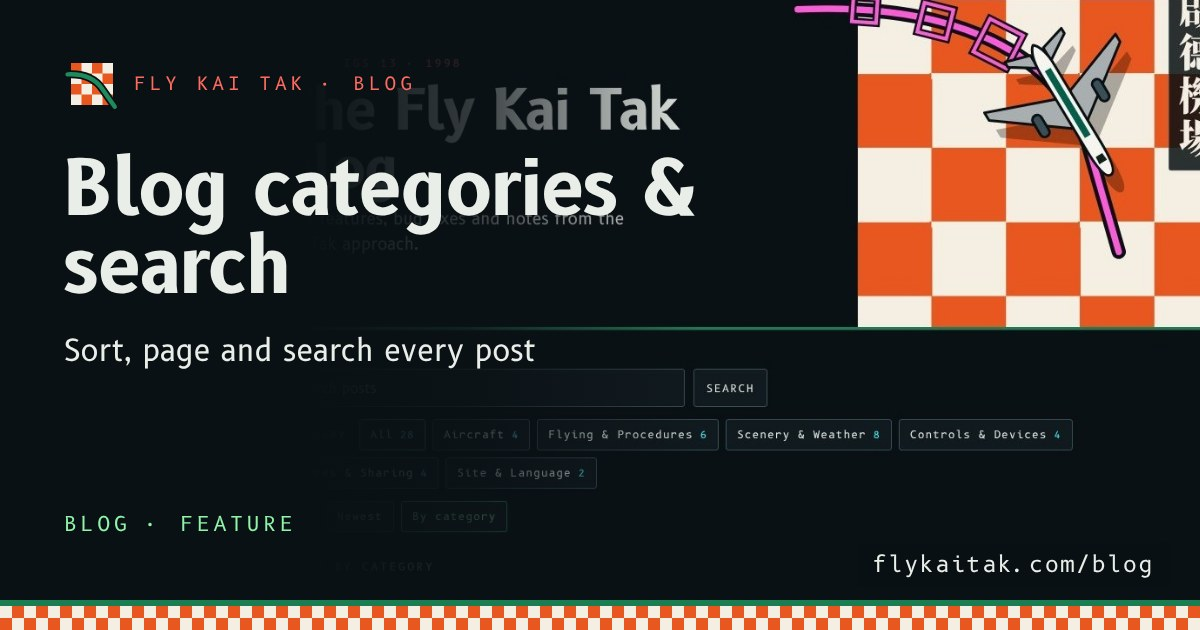
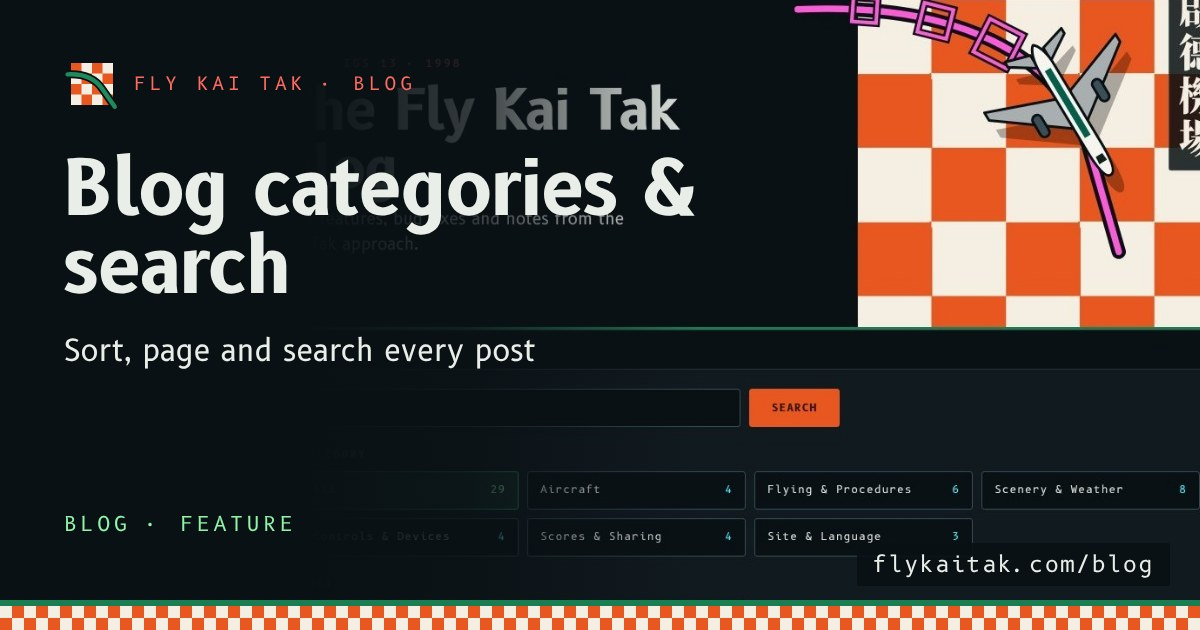
Blog: tidy search bar and category buttons
- Remove the redundant "Search posts" placeholder (button and hidden label remain)
- Search box and button both 44px tall, same font and size as the other controls
- Categories as a grid of equal-size buttons with counts; sort as matching buttons, in one panel
- Refresh the screenshots in the feature post

Claude-Session: https://claude.ai/code/session_013KFodNiqns6dwfMfUUXwou

diff --git a/assets/blog/blog.css b/assets/blog/blog.css
@@ -150,19 +150,26 @@ html[data-lang=zh] .prose[data-lang=en]{display:none}
 html[data-lang=zh] body{font-family:var(--f-ui),"PingFang HK","Microsoft JhengHei","Noto Sans TC","Heiti TC",sans-serif}
 html[data-lang=zh] .prose,html[data-lang=zh] .post-head h1,html[data-lang=zh] .dek{line-height:1.8}
 
-/* Blog listing: search, categories, sort, pagination */
+/* Blog listing: search, categories, sort, pagination. One control style: B612 Mono 12px caps, 44px tall, 3px radius */
 .sr{position:absolute;width:1px;height:1px;overflow:hidden;clip:rect(0 0 0 0);white-space:nowrap}
-.tools{display:grid;gap:14px;margin:0 0 30px}
-.blogsearch{display:flex;gap:10px;max-width:560px}
-.blogsearch input{flex:1;min-width:0;min-height:44px;padding:8px 14px;background:var(--panel-2);border:1px solid var(--line-2);border-radius:3px;color:var(--text);font-family:var(--f-ui);font-size:16px}
-.blogsearch input::placeholder{color:var(--muted)}
+.tools{display:grid;gap:22px;margin:0 0 34px;padding:22px;background:var(--panel-2);border:1px solid var(--line);border-radius:3px}
+.blogsearch{display:flex;align-items:stretch;gap:10px;max-width:620px}
+.blogsearch input,.blogsearch .btn{height:44px;min-height:44px;box-sizing:border-box;margin:0;border-radius:3px;font-family:var(--f-num);font-size:12px;line-height:1;letter-spacing:.08em}
+.blogsearch input{flex:1;min-width:0;padding:0 14px;background:var(--ink);border:1px solid var(--line-2);color:var(--text);-webkit-appearance:none;appearance:none}
 .blogsearch input:focus-visible{outline:2px solid var(--checker);outline-offset:2px;border-color:var(--paper)}
-.chips,.sortbar{display:flex;flex-wrap:wrap;align-items:center;gap:8px}
-.chips .k,.sortbar .k{font-family:var(--f-num);font-size:11px;letter-spacing:.22em;text-transform:uppercase;color:var(--muted);margin-right:6px}
-.chips a,.sortbar a,.pager .pg{display:inline-flex;align-items:center;gap:8px;min-height:36px;padding:6px 12px;border:1px solid var(--line-2);border-radius:3px;background:var(--panel-2);color:var(--text);text-decoration:none;font-family:var(--f-num);font-size:12px;letter-spacing:.08em;cursor:pointer}
-.chips a:hover,.sortbar a:hover,.pager .pg:hover{border-color:var(--paper)}
-.chips a[aria-current=page],.sortbar a[aria-current=page],.pager .pg[aria-current=page]{border-color:var(--jade-bright);color:var(--phosphor)}
-.n{font-family:var(--f-num);font-size:11px;color:var(--cyan);font-variant-numeric:tabular-nums}
+.blogsearch .btn{flex:none;justify-content:center;min-width:104px;padding:0 20px;background:var(--checker);border-color:var(--checker);color:var(--checker-ink);font-weight:700}
+.blogsearch .btn:hover{border-color:var(--paper)}
+.chips,.sortbar{display:grid;gap:10px}
+.tools h2.k{margin:0;font-family:var(--f-num);font-size:11px;font-weight:400;letter-spacing:.22em;text-transform:uppercase;color:var(--muted)}
+.chipgrid{display:grid;gap:10px;grid-template-columns:repeat(auto-fill,minmax(236px,1fr))}
+.chipgrid a,.seg a,.pager .pg{display:flex;align-items:center;justify-content:space-between;gap:10px;height:44px;min-height:44px;box-sizing:border-box;padding:0 14px;border:1px solid var(--line-2);border-radius:3px;background:var(--ink);color:var(--text);text-decoration:none;font-family:var(--f-num);font-size:12px;line-height:1.2;letter-spacing:.08em;cursor:pointer}
+.chipgrid a:hover,.seg a:hover,.pager .pg:hover{border-color:var(--paper)}
+.chipgrid a[aria-current=page],.seg a[aria-current=page],.pager .pg[aria-current=page]{border-color:var(--jade-bright);background:rgba(47,163,109,.14);color:var(--phosphor)}
+.chipgrid .nm{min-width:0;white-space:nowrap}
+.seg{display:grid;grid-template-columns:repeat(auto-fill,minmax(236px,1fr));gap:10px}
+.seg a{justify-content:center}
+.n{flex:none;font-family:var(--f-num);font-size:12px;color:var(--cyan);font-variant-numeric:tabular-nums}
+.chipgrid a[aria-current=page] .n{color:var(--phosphor)}
 .grouphead{display:flex;align-items:baseline;gap:12px;margin:34px 0 16px;font-size:22px;line-height:1.2}
 .grouphead:first-child{margin-top:0}
 .grouphead a{color:var(--text);text-decoration:none}
@@ -170,8 +177,10 @@ html[data-lang=zh] .prose,html[data-lang=zh] .post-head h1,html[data-lang=zh] .d
 .pager{display:flex;flex-wrap:wrap;align-items:center;gap:8px;margin:36px 0 0}
 .pager .pginfo,.count{font-family:var(--f-num);font-size:12px;letter-spacing:.1em;color:var(--muted)}
 .pager .pginfo{margin-right:8px}
-.pager button.pg{font:inherit;font-family:var(--f-num);font-size:12px;letter-spacing:.08em}
+.pager .pg{justify-content:center;min-width:44px}
+.pager button.pg{margin:0}
 .count{margin:0 0 18px}
 .catpill{align-self:flex-start;font-family:var(--f-num);font-size:10.5px;letter-spacing:.14em;text-transform:uppercase;color:var(--amber);border:1px solid var(--line-2);border-radius:3px;padding:2px 8px}
 .eyebrow a{color:inherit;text-decoration-color:var(--line-2)}
-@media (max-width:520px){.blogsearch{max-width:none}}
+@media (max-width:520px){.chipgrid .nm{white-space:normal;line-height:1.2}.tools{padding:16px}.blogsearch{max-width:none}.chipgrid{grid-template-columns:repeat(2,minmax(0,1fr))}.seg{grid-template-columns:repeat(2,minmax(0,1fr))}}
+@media (hover:none){.blogsearch input{font-size:16px}}

diff --git a/blog/index.html b/blog/index.html
@@ -68,11 +68,11 @@ window.FKT_ANALYTICS={id:'G-7MNP3SBEF8',src:'/metrics/',fallback:'https://www.go
   <div class="tools">
   <form class="blogsearch" id="blogsearch" role="search" action="/blog/" method="get">
     <label class="sr" for="blogq">Search posts</label>
-    <input id="blogq" name="q" type="search" placeholder="Search posts" autocomplete="off" enterkeyhint="search">
+    <input id="blogq" name="q" type="search" autocomplete="off" enterkeyhint="search">
     <button class="btn" type="submit">Search</button>
   </form>
-  <nav class="chips" aria-label="Categories"><span class="k">Category</span><a href="/blog/" aria-current="page">All <span class="n">29</span></a><a href="/blog/category/aircraft/"><span data-zh="飛機">Aircraft</span><span class="n">4</span></a><a href="/blog/category/flying/"><span data-zh="飛行同程序">Flying &amp; Procedures</span><span class="n">6</span></a><a href="/blog/category/scenery/"><span data-zh="風景同天氣">Scenery &amp; Weather</span><span class="n">8</span></a><a href="/blog/category/controls/"><span data-zh="操控同裝置">Controls &amp; Devices</span><span class="n">4</span></a><a href="/blog/category/scores/"><span data-zh="分數同分享">Scores &amp; Sharing</span><span class="n">4</span></a><a href="/blog/category/site/"><span data-zh="網站同語言">Site &amp; Language</span><span class="n">3</span></a></nav>
-  <nav class="sortbar" aria-label="Sort posts"><span class="k">Sort</span><a href="/blog/" aria-current="page">Newest</a><a href="/blog/sort/category/">By category</a></nav>
+  <nav class="chips" aria-label="Categories"><h2 class="k">Category</h2><div class="chipgrid"><a href="/blog/" aria-current="page"><span class="nm">All</span><span class="n">29</span></a><a href="/blog/category/aircraft/"><span class="nm" data-zh="飛機">Aircraft</span><span class="n">4</span></a><a href="/blog/category/flying/"><span class="nm" data-zh="飛行同程序">Flying &amp; Procedures</span><span class="n">6</span></a><a href="/blog/category/scenery/"><span class="nm" data-zh="風景同天氣">Scenery &amp; Weather</span><span class="n">8</span></a><a href="/blog/category/controls/"><span class="nm" data-zh="操控同裝置">Controls &amp; Devices</span><span class="n">4</span></a><a href="/blog/category/scores/"><span class="nm" data-zh="分數同分享">Scores &amp; Sharing</span><span class="n">4</span></a><a href="/blog/category/site/"><span class="nm" data-zh="網站同語言">Site &amp; Language</span><span class="n">3</span></a></div></nav>
+  <nav class="sortbar" aria-label="Sort posts"><h2 class="k">Sort</h2><div class="seg"><a href="/blog/" aria-current="page">Newest</a><a href="/blog/sort/category/">By category</a></div></nav>
 </div>
   <div id="results" hidden>
     <p class="count" id="resultcount" role="status" aria-live="polite"></p>

diff --git a/blog/page/2/index.html b/blog/page/2/index.html
@@ -67,11 +67,11 @@ window.FKT_ANALYTICS={id:'G-7MNP3SBEF8',src:'/metrics/',fallback:'https://www.go
   <div class="tools">
   <form class="blogsearch" id="blogsearch" role="search" action="/blog/" method="get">
     <label class="sr" for="blogq">Search posts</label>
-    <input id="blogq" name="q" type="search" placeholder="Search posts" autocomplete="off" enterkeyhint="search">
+    <input id="blogq" name="q" type="search" autocomplete="off" enterkeyhint="search">
     <button class="btn" type="submit">Search</button>
   </form>
-  <nav class="chips" aria-label="Categories"><span class="k">Category</span><a href="/blog/" aria-current="page">All <span class="n">29</span></a><a href="/blog/category/aircraft/"><span data-zh="飛機">Aircraft</span><span class="n">4</span></a><a href="/blog/category/flying/"><span data-zh="飛行同程序">Flying &amp; Procedures</span><span class="n">6</span></a><a href="/blog/category/scenery/"><span data-zh="風景同天氣">Scenery &amp; Weather</span><span class="n">8</span></a><a href="/blog/category/controls/"><span data-zh="操控同裝置">Controls &amp; Devices</span><span class="n">4</span></a><a href="/blog/category/scores/"><span data-zh="分數同分享">Scores &amp; Sharing</span><span class="n">4</span></a><a href="/blog/category/site/"><span data-zh="網站同語言">Site &amp; Language</span><span class="n">3</span></a></nav>
-  <nav class="sortbar" aria-label="Sort posts"><span class="k">Sort</span><a href="/blog/" aria-current="page">Newest</a><a href="/blog/sort/category/">By category</a></nav>
+  <nav class="chips" aria-label="Categories"><h2 class="k">Category</h2><div class="chipgrid"><a href="/blog/" aria-current="page"><span class="nm">All</span><span class="n">29</span></a><a href="/blog/category/aircraft/"><span class="nm" data-zh="飛機">Aircraft</span><span class="n">4</span></a><a href="/blog/category/flying/"><span class="nm" data-zh="飛行同程序">Flying &amp; Procedures</span><span class="n">6</span></a><a href="/blog/category/scenery/"><span class="nm" data-zh="風景同天氣">Scenery &amp; Weather</span><span class="n">8</span></a><a href="/blog/category/controls/"><span class="nm" data-zh="操控同裝置">Controls &amp; Devices</span><span class="n">4</span></a><a href="/blog/category/scores/"><span class="nm" data-zh="分數同分享">Scores &amp; Sharing</span><span class="n">4</span></a><a href="/blog/category/site/"><span class="nm" data-zh="網站同語言">Site &amp; Language</span><span class="n">3</span></a></div></nav>
+  <nav class="sortbar" aria-label="Sort posts"><h2 class="k">Sort</h2><div class="seg"><a href="/blog/" aria-current="page">Newest</a><a href="/blog/sort/category/">By category</a></div></nav>
 </div>
   <div id="results" hidden>
     <p class="count" id="resultcount" role="status" aria-live="polite"></p>

diff --git a/blog/sort/category/index.html b/blog/sort/category/index.html
@@ -67,11 +67,11 @@ window.FKT_ANALYTICS={id:'G-7MNP3SBEF8',src:'/metrics/',fallback:'https://www.go
   <div class="tools">
   <form class="blogsearch" id="blogsearch" role="search" action="/blog/" method="get">
     <label class="sr" for="blogq">Search posts</label>
-    <input id="blogq" name="q" type="search" placeholder="Search posts" autocomplete="off" enterkeyhint="search">
+    <input id="blogq" name="q" type="search" autocomplete="off" enterkeyhint="search">
     <button class="btn" type="submit">Search</button>
   </form>
-  <nav class="chips" aria-label="Categories"><span class="k">Category</span><a href="/blog/" aria-current="page">All <span class="n">29</span></a><a href="/blog/category/aircraft/"><span data-zh="飛機">Aircraft</span><span class="n">4</span></a><a href="/blog/category/flying/"><span data-zh="飛行同程序">Flying &amp; Procedures</span><span class="n">6</span></a><a href="/blog/category/scenery/"><span data-zh="風景同天氣">Scenery &amp; Weather</span><span class="n">8</span></a><a href="/blog/category/controls/"><span data-zh="操控同裝置">Controls &amp; Devices</span><span class="n">4</span></a><a href="/blog/category/scores/"><span data-zh="分數同分享">Scores &amp; Sharing</span><span class="n">4</span></a><a href="/blog/category/site/"><span data-zh="網站同語言">Site &amp; Language</span><span class="n">3</span></a></nav>
-  <nav class="sortbar" aria-label="Sort posts"><span class="k">Sort</span><a href="/blog/">Newest</a><a href="/blog/sort/category/" aria-current="page">By category</a></nav>
+  <nav class="chips" aria-label="Categories"><h2 class="k">Category</h2><div class="chipgrid"><a href="/blog/" aria-current="page"><span class="nm">All</span><span class="n">29</span></a><a href="/blog/category/aircraft/"><span class="nm" data-zh="飛機">Aircraft</span><span class="n">4</span></a><a href="/blog/category/flying/"><span class="nm" data-zh="飛行同程序">Flying &amp; Procedures</span><span class="n">6</span></a><a href="/blog/category/scenery/"><span class="nm" data-zh="風景同天氣">Scenery &amp; Weather</span><span class="n">8</span></a><a href="/blog/category/controls/"><span class="nm" data-zh="操控同裝置">Controls &amp; Devices</span><span class="n">4</span></a><a href="/blog/category/scores/"><span class="nm" data-zh="分數同分享">Scores &amp; Sharing</span><span class="n">4</span></a><a href="/blog/category/site/"><span class="nm" data-zh="網站同語言">Site &amp; Language</span><span class="n">3</span></a></div></nav>
+  <nav class="sortbar" aria-label="Sort posts"><h2 class="k">Sort</h2><div class="seg"><a href="/blog/">Newest</a><a href="/blog/sort/category/" aria-current="page">By category</a></div></nav>
 </div>
   <div id="results" hidden>
     <p class="count" id="resultcount" role="status" aria-live="polite"></p>

diff --git a/blog/sort/category/page/2/index.html b/blog/sort/category/page/2/index.html
@@ -67,11 +67,11 @@ window.FKT_ANALYTICS={id:'G-7MNP3SBEF8',src:'/metrics/',fallback:'https://www.go
   <div class="tools">
   <form class="blogsearch" id="blogsearch" role="search" action="/blog/" method="get">
     <label class="sr" for="blogq">Search posts</label>
-    <input id="blogq" name="q" type="search" placeholder="Search posts" autocomplete="off" enterkeyhint="search">
+    <input id="blogq" name="q" type="search" autocomplete="off" enterkeyhint="search">
     <button class="btn" type="submit">Search</button>
   </form>
-  <nav class="chips" aria-label="Categories"><span class="k">Category</span><a href="/blog/" aria-current="page">All <span class="n">29</span></a><a href="/blog/category/aircraft/"><span data-zh="飛機">Aircraft</span><span class="n">4</span></a><a href="/blog/category/flying/"><span data-zh="飛行同程序">Flying &amp; Procedures</span><span class="n">6</span></a><a href="/blog/category/scenery/"><span data-zh="風景同天氣">Scenery &amp; Weather</span><span class="n">8</span></a><a href="/blog/category/controls/"><span data-zh="操控同裝置">Controls &amp; Devices</span><span class="n">4</span></a><a href="/blog/category/scores/"><span data-zh="分數同分享">Scores &amp; Sharing</span><span class="n">4</span></a><a href="/blog/category/site/"><span data-zh="網站同語言">Site &amp; Language</span><span class="n">3</span></a></nav>
-  <nav class="sortbar" aria-label="Sort posts"><span class="k">Sort</span><a href="/blog/">Newest</a><a href="/blog/sort/category/" aria-current="page">By category</a></nav>
+  <nav class="chips" aria-label="Categories"><h2 class="k">Category</h2><div class="chipgrid"><a href="/blog/" aria-current="page"><span class="nm">All</span><span class="n">29</span></a><a href="/blog/category/aircraft/"><span class="nm" data-zh="飛機">Aircraft</span><span class="n">4</span></a><a href="/blog/category/flying/"><span class="nm" data-zh="飛行同程序">Flying &amp; Procedures</span><span class="n">6</span></a><a href="/blog/category/scenery/"><span class="nm" data-zh="風景同天氣">Scenery &amp; Weather</span><span class="n">8</span></a><a href="/blog/category/controls/"><span class="nm" data-zh="操控同裝置">Controls &amp; Devices</span><span class="n">4</span></a><a href="/blog/category/scores/"><span class="nm" data-zh="分數同分享">Scores &amp; Sharing</span><span class="n">4</span></a><a href="/blog/category/site/"><span class="nm" data-zh="網站同語言">Site &amp; Language</span><span class="n">3</span></a></div></nav>
+  <nav class="sortbar" aria-label="Sort posts"><h2 class="k">Sort</h2><div class="seg"><a href="/blog/">Newest</a><a href="/blog/sort/category/" aria-current="page">By category</a></div></nav>
 </div>
   <div id="results" hidden>
     <p class="count" id="resultcount" role="status" aria-live="polite"></p>

diff --git a/blog/category/aircraft/index.html b/blog/category/aircraft/index.html
@@ -66,10 +66,10 @@ window.FKT_ANALYTICS={id:'G-7MNP3SBEF8',src:'/metrics/',fallback:'https://www.go
   <div class="tools">
   <form class="blogsearch" id="blogsearch" role="search" action="/blog/" method="get">
     <label class="sr" for="blogq">Search posts</label>
-    <input id="blogq" name="q" type="search" placeholder="Search posts" autocomplete="off" enterkeyhint="search">
+    <input id="blogq" name="q" type="search" autocomplete="off" enterkeyhint="search">
     <button class="btn" type="submit">Search</button>
   </form>
-  <nav class="chips" aria-label="Categories"><span class="k">Category</span><a href="/blog/">All <span class="n">29</span></a><a href="/blog/category/aircraft/" aria-current="page"><span data-zh="飛機">Aircraft</span><span class="n">4</span></a><a href="/blog/category/flying/"><span data-zh="飛行同程序">Flying &amp; Procedures</span><span class="n">6</span></a><a href="/blog/category/scenery/"><span data-zh="風景同天氣">Scenery &amp; Weather</span><span class="n">8</span></a><a href="/blog/category/controls/"><span data-zh="操控同裝置">Controls &amp; Devices</span><span class="n">4</span></a><a href="/blog/category/scores/"><span data-zh="分數同分享">Scores &amp; Sharing</span><span class="n">4</span></a><a href="/blog/category/site/"><span data-zh="網站同語言">Site &amp; Language</span><span class="n">3</span></a></nav>
+  <nav class="chips" aria-label="Categories"><h2 class="k">Category</h2><div class="chipgrid"><a href="/blog/"><span class="nm">All</span><span class="n">29</span></a><a href="/blog/category/aircraft/" aria-current="page"><span class="nm" data-zh="飛機">Aircraft</span><span class="n">4</span></a><a href="/blog/category/flying/"><span class="nm" data-zh="飛行同程序">Flying &amp; Procedures</span><span class="n">6</span></a><a href="/blog/category/scenery/"><span class="nm" data-zh="風景同天氣">Scenery &amp; Weather</span><span class="n">8</span></a><a href="/blog/category/controls/"><span class="nm" data-zh="操控同裝置">Controls &amp; Devices</span><span class="n">4</span></a><a href="/blog/category/scores/"><span class="nm" data-zh="分數同分享">Scores &amp; Sharing</span><span class="n">4</span></a><a href="/blog/category/site/"><span class="nm" data-zh="網站同語言">Site &amp; Language</span><span class="n">3</span></a></div></nav>
   
 </div>
   <div id="results" hidden>

diff --git a/blog/category/controls/index.html b/blog/category/controls/index.html
@@ -66,10 +66,10 @@ window.FKT_ANALYTICS={id:'G-7MNP3SBEF8',src:'/metrics/',fallback:'https://www.go
   <div class="tools">
   <form class="blogsearch" id="blogsearch" role="search" action="/blog/" method="get">
     <label class="sr" for="blogq">Search posts</label>
-    <input id="blogq" name="q" type="search" placeholder="Search posts" autocomplete="off" enterkeyhint="search">
+    <input id="blogq" name="q" type="search" autocomplete="off" enterkeyhint="search">
     <button class="btn" type="submit">Search</button>
   </form>
-  <nav class="chips" aria-label="Categories"><span class="k">Category</span><a href="/blog/">All <span class="n">29</span></a><a href="/blog/category/aircraft/"><span data-zh="飛機">Aircraft</span><span class="n">4</span></a><a href="/blog/category/flying/"><span data-zh="飛行同程序">Flying &amp; Procedures</span><span class="n">6</span></a><a href="/blog/category/scenery/"><span data-zh="風景同天氣">Scenery &amp; Weather</span><span class="n">8</span></a><a href="/blog/category/controls/" aria-current="page"><span data-zh="操控同裝置">Controls &amp; Devices</span><span class="n">4</span></a><a href="/blog/category/scores/"><span data-zh="分數同分享">Scores &amp; Sharing</span><span class="n">4</span></a><a href="/blog/category/site/"><span data-zh="網站同語言">Site &amp; Language</span><span class="n">3</span></a></nav>
+  <nav class="chips" aria-label="Categories"><h2 class="k">Category</h2><div class="chipgrid"><a href="/blog/"><span class="nm">All</span><span class="n">29</span></a><a href="/blog/category/aircraft/"><span class="nm" data-zh="飛機">Aircraft</span><span class="n">4</span></a><a href="/blog/category/flying/"><span class="nm" data-zh="飛行同程序">Flying &amp; Procedures</span><span class="n">6</span></a><a href="/blog/category/scenery/"><span class="nm" data-zh="風景同天氣">Scenery &amp; Weather</span><span class="n">8</span></a><a href="/blog/category/controls/" aria-current="page"><span class="nm" data-zh="操控同裝置">Controls &amp; Devices</span><span class="n">4</span></a><a href="/blog/category/scores/"><span class="nm" data-zh="分數同分享">Scores &amp; Sharing</span><span class="n">4</span></a><a href="/blog/category/site/"><span class="nm" data-zh="網站同語言">Site &amp; Language</span><span class="n">3</span></a></div></nav>
   
 </div>
   <div id="results" hidden>

diff --git a/blog/category/flying/index.html b/blog/category/flying/index.html
@@ -66,10 +66,10 @@ window.FKT_ANALYTICS={id:'G-7MNP3SBEF8',src:'/metrics/',fallback:'https://www.go
   <div class="tools">
   <form class="blogsearch" id="blogsearch" role="search" action="/blog/" method="get">
     <label class="sr" for="blogq">Search posts</label>
-    <input id="blogq" name="q" type="search" placeholder="Search posts" autocomplete="off" enterkeyhint="search">
+    <input id="blogq" name="q" type="search" autocomplete="off" enterkeyhint="search">
     <button class="btn" type="submit">Search</button>
   </form>
-  <nav class="chips" aria-label="Categories"><span class="k">Category</span><a href="/blog/">All <span class="n">29</span></a><a href="/blog/category/aircraft/"><span data-zh="飛機">Aircraft</span><span class="n">4</span></a><a href="/blog/category/flying/" aria-current="page"><span data-zh="飛行同程序">Flying &amp; Procedures</span><span class="n">6</span></a><a href="/blog/category/scenery/"><span data-zh="風景同天氣">Scenery &amp; Weather</span><span class="n">8</span></a><a href="/blog/category/controls/"><span data-zh="操控同裝置">Controls &amp; Devices</span><span class="n">4</span></a><a href="/blog/category/scores/"><span data-zh="分數同分享">Scores &amp; Sharing</span><span class="n">4</span></a><a href="/blog/category/site/"><span data-zh="網站同語言">Site &amp; Language</span><span class="n">3</span></a></nav>
+  <nav class="chips" aria-label="Categories"><h2 class="k">Category</h2><div class="chipgrid"><a href="/blog/"><span class="nm">All</span><span class="n">29</span></a><a href="/blog/category/aircraft/"><span class="nm" data-zh="飛機">Aircraft</span><span class="n">4</span></a><a href="/blog/category/flying/" aria-current="page"><span class="nm" data-zh="飛行同程序">Flying &amp; Procedures</span><span class="n">6</span></a><a href="/blog/category/scenery/"><span class="nm" data-zh="風景同天氣">Scenery &amp; Weather</span><span class="n">8</span></a><a href="/blog/category/controls/"><span class="nm" data-zh="操控同裝置">Controls &amp; Devices</span><span class="n">4</span></a><a href="/blog/category/scores/"><span class="nm" data-zh="分數同分享">Scores &amp; Sharing</span><span class="n">4</span></a><a href="/blog/category/site/"><span class="nm" data-zh="網站同語言">Site &amp; Language</span><span class="n">3</span></a></div></nav>
   
 </div>
   <div id="results" hidden>

diff --git a/blog/category/scenery/index.html b/blog/category/scenery/index.html
@@ -66,10 +66,10 @@ window.FKT_ANALYTICS={id:'G-7MNP3SBEF8',src:'/metrics/',fallback:'https://www.go
   <div class="tools">
   <form class="blogsearch" id="blogsearch" role="search" action="/blog/" method="get">
     <label class="sr" for="blogq">Search posts</label>
-    <input id="blogq" name="q" type="search" placeholder="Search posts" autocomplete="off" enterkeyhint="search">
+    <input id="blogq" name="q" type="search" autocomplete="off" enterkeyhint="search">
     <button class="btn" type="submit">Search</button>
   </form>
-  <nav class="chips" aria-label="Categories"><span class="k">Category</span><a href="/blog/">All <span class="n">29</span></a><a href="/blog/category/aircraft/"><span data-zh="飛機">Aircraft</span><span class="n">4</span></a><a href="/blog/category/flying/"><span data-zh="飛行同程序">Flying &amp; Procedures</span><span class="n">6</span></a><a href="/blog/category/scenery/" aria-current="page"><span data-zh="風景同天氣">Scenery &amp; Weather</span><span class="n">8</span></a><a href="/blog/category/controls/"><span data-zh="操控同裝置">Controls &amp; Devices</span><span class="n">4</span></a><a href="/blog/category/scores/"><span data-zh="分數同分享">Scores &amp; Sharing</span><span class="n">4</span></a><a href="/blog/category/site/"><span data-zh="網站同語言">Site &amp; Language</span><span class="n">3</span></a></nav>
+  <nav class="chips" aria-label="Categories"><h2 class="k">Category</h2><div class="chipgrid"><a href="/blog/"><span class="nm">All</span><span class="n">29</span></a><a href="/blog/category/aircraft/"><span class="nm" data-zh="飛機">Aircraft</span><span class="n">4</span></a><a href="/blog/category/flying/"><span class="nm" data-zh="飛行同程序">Flying &amp; Procedures</span><span class="n">6</span></a><a href="/blog/category/scenery/" aria-current="page"><span class="nm" data-zh="風景同天氣">Scenery &amp; Weather</span><span class="n">8</span></a><a href="/blog/category/controls/"><span class="nm" data-zh="操控同裝置">Controls &amp; Devices</span><span class="n">4</span></a><a href="/blog/category/scores/"><span class="nm" data-zh="分數同分享">Scores &amp; Sharing</span><span class="n">4</span></a><a href="/blog/category/site/"><span class="nm" data-zh="網站同語言">Site &amp; Language</span><span class="n">3</span></a></div></nav>
   
 </div>
   <div id="results" hidden>

diff --git a/blog/category/scores/index.html b/blog/category/scores/index.html
@@ -66,10 +66,10 @@ window.FKT_ANALYTICS={id:'G-7MNP3SBEF8',src:'/metrics/',fallback:'https://www.go
   <div class="tools">
   <form class="blogsearch" id="blogsearch" role="search" action="/blog/" method="get">
     <label class="sr" for="blogq">Search posts</label>
-    <input id="blogq" name="q" type="search" placeholder="Search posts" autocomplete="off" enterkeyhint="search">
+    <input id="blogq" name="q" type="search" autocomplete="off" enterkeyhint="search">
     <button class="btn" type="submit">Search</button>
   </form>
-  <nav class="chips" aria-label="Categories"><span class="k">Category</span><a href="/blog/">All <span class="n">29</span></a><a href="/blog/category/aircraft/"><span data-zh="飛機">Aircraft</span><span class="n">4</span></a><a href="/blog/category/flying/"><span data-zh="飛行同程序">Flying &amp; Procedures</span><span class="n">6</span></a><a href="/blog/category/scenery/"><span data-zh="風景同天氣">Scenery &amp; Weather</span><span class="n">8</span></a><a href="/blog/category/controls/"><span data-zh="操控同裝置">Controls &amp; Devices</span><span class="n">4</span></a><a href="/blog/category/scores/" aria-current="page"><span data-zh="分數同分享">Scores &amp; Sharing</span><span class="n">4</span></a><a href="/blog/category/site/"><span data-zh="網站同語言">Site &amp; Language</span><span class="n">3</span></a></nav>
+  <nav class="chips" aria-label="Categories"><h2 class="k">Category</h2><div class="chipgrid"><a href="/blog/"><span class="nm">All</span><span class="n">29</span></a><a href="/blog/category/aircraft/"><span class="nm" data-zh="飛機">Aircraft</span><span class="n">4</span></a><a href="/blog/category/flying/"><span class="nm" data-zh="飛行同程序">Flying &amp; Procedures</span><span class="n">6</span></a><a href="/blog/category/scenery/"><span class="nm" data-zh="風景同天氣">Scenery &amp; Weather</span><span class="n">8</span></a><a href="/blog/category/controls/"><span class="nm" data-zh="操控同裝置">Controls &amp; Devices</span><span class="n">4</span></a><a href="/blog/category/scores/" aria-current="page"><span class="nm" data-zh="分數同分享">Scores &amp; Sharing</span><span class="n">4</span></a><a href="/blog/category/site/"><span class="nm" data-zh="網站同語言">Site &amp; Language</span><span class="n">3</span></a></div></nav>
   
 </div>
   <div id="results" hidden>

diff --git a/blog/category/site/index.html b/blog/category/site/index.html
@@ -66,10 +66,10 @@ window.FKT_ANALYTICS={id:'G-7MNP3SBEF8',src:'/metrics/',fallback:'https://www.go
   <div class="tools">
   <form class="blogsearch" id="blogsearch" role="search" action="/blog/" method="get">
     <label class="sr" for="blogq">Search posts</label>
-    <input id="blogq" name="q" type="search" placeholder="Search posts" autocomplete="off" enterkeyhint="search">
+    <input id="blogq" name="q" type="search" autocomplete="off" enterkeyhint="search">
     <button class="btn" type="submit">Search</button>
   </form>
-  <nav class="chips" aria-label="Categories"><span class="k">Category</span><a href="/blog/">All <span class="n">29</span></a><a href="/blog/category/aircraft/"><span data-zh="飛機">Aircraft</span><span class="n">4</span></a><a href="/blog/category/flying/"><span data-zh="飛行同程序">Flying &amp; Procedures</span><span class="n">6</span></a><a href="/blog/category/scenery/"><span data-zh="風景同天氣">Scenery &amp; Weather</span><span class="n">8</span></a><a href="/blog/category/controls/"><span data-zh="操控同裝置">Controls &amp; Devices</span><span class="n">4</span></a><a href="/blog/category/scores/"><span data-zh="分數同分享">Scores &amp; Sharing</span><span class="n">4</span></a><a href="/blog/category/site/" aria-current="page"><span data-zh="網站同語言">Site &amp; Language</span><span class="n">3</span></a></nav>
+  <nav class="chips" aria-label="Categories"><h2 class="k">Category</h2><div class="chipgrid"><a href="/blog/"><span class="nm">All</span><span class="n">29</span></a><a href="/blog/category/aircraft/"><span class="nm" data-zh="飛機">Aircraft</span><span class="n">4</span></a><a href="/blog/category/flying/"><span class="nm" data-zh="飛行同程序">Flying &amp; Procedures</span><span class="n">6</span></a><a href="/blog/category/scenery/"><span class="nm" data-zh="風景同天氣">Scenery &amp; Weather</span><span class="n">8</span></a><a href="/blog/category/controls/"><span class="nm" data-zh="操控同裝置">Controls &amp; Devices</span><span class="n">4</span></a><a href="/blog/category/scores/"><span class="nm" data-zh="分數同分享">Scores &amp; Sharing</span><span class="n">4</span></a><a href="/blog/category/site/" aria-current="page"><span class="nm" data-zh="網站同語言">Site &amp; Language</span><span class="n">3</span></a></div></nav>
   
 </div>
   <div id="results" hidden>

diff --git a/assets/blog/search.js b/assets/blog/search.js
@@ -8,9 +8,9 @@ var PER=20,root=document.documentElement,data=null,loading=null,failed=false,q='
 var TAGS={Feature:'新功能',Update:'更新','Behind the scenes':'幕後花絮',Fix:'修正',New:'新增',History:'歷史'};
 function zh(){return root.getAttribute('data-lang')==='zh'}
 var T={
-  en:{ph:'Search posts',none:'No posts match your search.',err:'Search is not available right now.',read:'Read the post →',prev:'← Previous',next:'Next →',
+  en:{none:'No posts match your search.',err:'Search is not available right now.',read:'Read the post →',prev:'← Previous',next:'Next →',
       found:function(n){return n===1?'1 post found':n+' posts found'},pg:function(n,m){return 'Page '+n+' of '+m}},
-  zh:{ph:'搜尋文章',none:'搵唔到相關文章。',err:'暫時用唔到搜尋。',read:'閱讀文章 →',prev:'← 上一頁',next:'下一頁 →',
+  zh:{none:'搵唔到相關文章。',err:'暫時用唔到搜尋。',read:'閱讀文章 →',prev:'← 上一頁',next:'下一頁 →',
       found:function(n){return '搵到 '+n+' 篇文章'},pg:function(n,m){return '第 '+n+' 頁，共 '+m+' 頁'}}};
 function t(){return zh()?T.zh:T.en}
 function el(tag,cls,text){var e=document.createElement(tag);if(cls)e.className=cls;if(text!=null)e.textContent=text;return e}
@@ -76,8 +76,7 @@ function track(){
     try{window.gtag&&gtag('event','search',{search_term:q,results:found?found.length:0,page_type:'blog'})}catch(e){}},900)}
 input.addEventListener('input',function(){clearTimeout(timer);timer=setTimeout(function(){run(input.value,1).then(track)},120)});
 form.addEventListener('submit',function(e){e.preventDefault();clearTimeout(timer);run(input.value,1).then(track)});
-new MutationObserver(function(){input.placeholder=t().ph;if(q)show()}).observe(root,{attributes:true,attributeFilter:['data-lang']});
-input.placeholder=t().ph;
+new MutationObserver(function(){if(q)show()}).observe(root,{attributes:true,attributeFilter:['data-lang']});
 var m=/[?&]q=([^&]*)/.exec(location.search);
 if(m){try{q=decodeURIComponent(m[1].replace(/\+/g,' '))}catch(e){q=''}
   var pm=/[?&]p=(\d+)/.exec(location.search);
